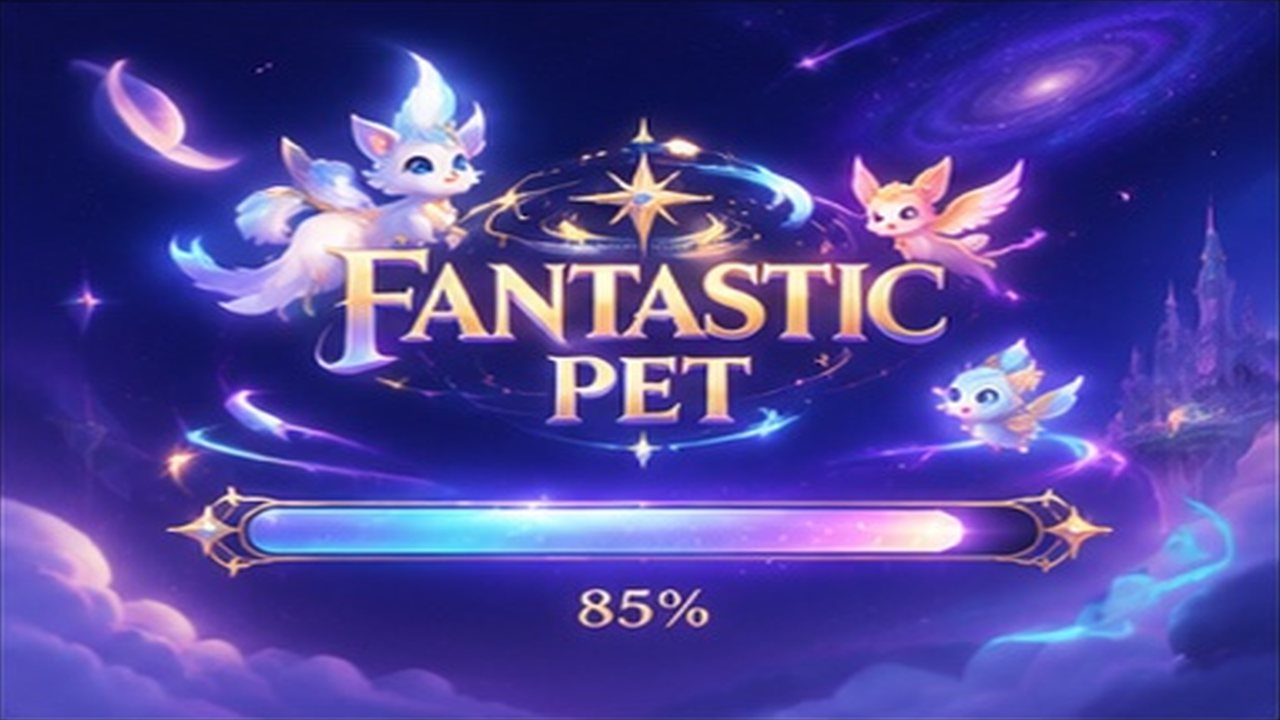
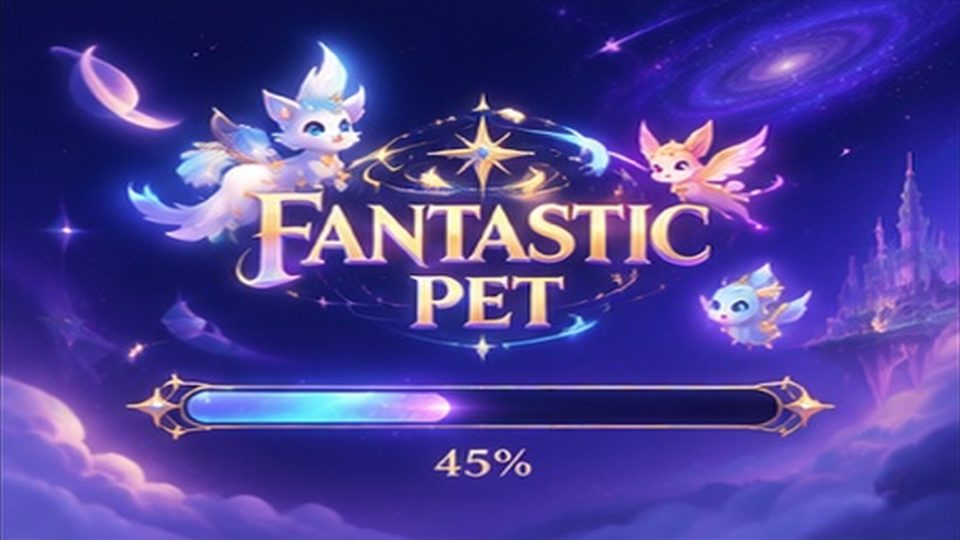
Add files via upload

diff --git a/script.js b/script.js
@@ -1,37 +1,56 @@
 const playBtn = document.getElementById('playBtn');
 const loading = document.getElementById('loading');
-const bootFrame = document.getElementById('bootFrame');
+const bootCanvas = document.getElementById('bootFrame');
 const game = document.getElementById('game');
 const select = document.getElementById('select');
 
-/* ---------- หน้าโหลดตอนเริ่มเกม (สไปรต์ชีต 12 เฟรม) ----------
-   เฟรม 0-8  = หลอดโหลด 0,15,30,45,55,70,85,95,100 %
-   เฟรม 9-11 = ปุ่ม PLAY (วนสลับให้เรืองแสง) */
-const BOOT_STEPS = [0, 15, 30, 45, 55, 70, 85, 95, 100];
-const BOOT_FRAMES = Array.from({ length: 12 }, (_, i) => `loadboot_${i}.jpg`);
-const bootReady = Promise.all(BOOT_FRAMES.map((u) => new Promise((r) => { const i = new Image(); i.onload = i.onerror = r; i.src = u; })));
+/* ---------- หน้าโหลดตอนเริ่มเกม (สไปรต์ชีต 23 เฟรม) ----------
+   เฟรม 0-16  = หลอดโหลด 0% -> 100% (มีเฟรมเบลนด์คั่นกลางไว้แล้ว)
+   เฟรม 17    = ช่วงเปลี่ยนจากหลอดเป็นปุ่ม PLAY
+   เฟรม 18-22 = ปุ่ม PLAY เรืองแสง (วนไปกลับ)
+   หลอดเดินตามเวลาจริง (requestAnimationFrame) ไม่ใช่ตัวเลขสุ่ม */
+const BOOT_COUNT = 23, BOOT_LAST = 16;
+const BOOT_MS = 3200;                       // เวลาขั้นต่ำที่หลอดเดิน 0 -> 100%
+const bootCtx = bootCanvas.getContext('2d');
+const bootImgs = new Array(BOOT_COUNT).fill(null);
+let bootDrawn = -1, bootLoaded = 0;
 
-let progress = 0, bootLoaded = false;
-bootReady.then(() => { bootLoaded = true; });
+function drawBoot(i) {
+  if (i === bootDrawn || !bootImgs[i]) return;
+  bootCtx.drawImage(bootImgs[i], 0, 0, bootCanvas.width, bootCanvas.height);
+  bootDrawn = i;
+}
+for (let i = 0; i < BOOT_COUNT; i++) {
+  const im = new Image();
+  im.src = `loadboot_${i}.jpg`;
+  const done = () => { bootImgs[i] = im.naturalWidth ? im : null; bootLoaded++; if (i === 0) drawBoot(0); };
+  (im.decode ? im.decode() : Promise.resolve()).then(done, done);   // decode ล่วงหน้า ตอนสลับเฟรมจะไม่กระตุก
+}
 
-const timer = setInterval(() => {
-  progress += Math.ceil(Math.random() * 3);
-  if (progress >= 100) progress = bootLoaded ? 100 : 99;   // รอรูปโหลดครบก่อนถึง 100%
-
-  let f = 0;
-  BOOT_STEPS.forEach((t, i) => { if (progress >= t) f = i; });
-  bootFrame.src = BOOT_FRAMES[f];
-
-  if (progress === 100) {
-    clearInterval(timer);
-    // โชว์ปุ่ม PLAY แล้ววนเฟรม 9,10,11,10 ให้เรืองแสง
-    const glow = [9, 10, 11, 10];
-    let g = 0;
-    bootFrame.src = BOOT_FRAMES[glow[0]];
-    playBtn.hidden = false;
-    setInterval(() => { g = (g + 1) % glow.length; bootFrame.src = BOOT_FRAMES[glow[g]]; }, 380);
+const GLOW = [18, 19, 20, 21, 22, 21, 20, 19];
+let bootT0 = null, bootDone = false;
+function bootTick(now) {
+  if (bootT0 === null) bootT0 = now;
+  const t = now - bootT0;
+  if (!bootDone) {
+    const p = Math.min(1, t / BOOT_MS);
+    const want = Math.floor(p * BOOT_LAST + 1e-6);
+    // เลื่อนเฟรมตามเวลา; ถ้าเฟรมนั้นยังโหลดไม่เสร็จ ให้ค้างเฟรมก่อนหน้า
+    let f = Math.max(0, bootDrawn);
+    while (f < want && bootImgs[f + 1]) f++;
+    drawBoot(f);
+    if (p >= 1 && bootLoaded >= BOOT_COUNT && bootDrawn >= BOOT_LAST) {
+      bootDone = true; bootT0 = now;
+    }
+  } else if (t < 360) {
+    drawBoot(17);                                   // หลอด -> ปุ่ม PLAY
+  } else {
+    if (playBtn.hidden) playBtn.hidden = false;
+    drawBoot(GLOW[Math.floor((t - 360) / 130) % GLOW.length]);
   }
-}, 80);
+  if (loading.classList.contains('active')) requestAnimationFrame(bootTick);
+}
+requestAnimationFrame(bootTick);
 
 playBtn.addEventListener('click', () => {
   loading.classList.remove('active');

diff --git a/style.css b/style.css
@@ -527,15 +527,12 @@ body{
 
 /* ===== หน้าโหลดตอนเริ่มเกม (รูปสไปรต์ชีต) ===== */
 #loading{padding:0;container-type:size;background:#140c45;overflow:hidden}
-.boot-bg{
-  position:absolute;inset:-6%;background:url(loadboot_0.jpg) center/cover;
-  filter:blur(22px) brightness(.7) saturate(1.2);
-}
+.boot-bg{position:absolute;inset:0;background:radial-gradient(ellipse at 50% 40%,#2b1d78 0%,#140c45 70%)}
 .boot-box{
   position:relative;aspect-ratio:16/9;
   width:min(100cqw,calc(100cqh * 16 / 9));
 }
-.boot-frame{display:block;width:100%;height:100%;object-fit:cover;user-select:none;-webkit-user-drag:none}
+.boot-frame{display:block;width:100%;height:100%;user-select:none;-webkit-user-drag:none}
 /* ปุ่ม PLAY ครอบทับปุ่มที่อยู่ในรูป */
 .boot-play{
   position:absolute;left:27%;width:46%;top:62%;height:22%;

diff --git a/index.html b/index.html
@@ -16,7 +16,7 @@
     <section id="loading" class="screen active" aria-label="กำลังโหลด">
       <div class="boot-bg"></div>
       <div class="boot-box">
-        <img id="bootFrame" class="boot-frame" src="loadboot_0.jpg" alt="Fantastic Pet" draggable="false">
+        <canvas id="bootFrame" class="boot-frame" width="960" height="540" role="img" aria-label="Fantastic Pet"></canvas>
         <button id="playBtn" class="boot-play" type="button" aria-label="Play" hidden></button>
       </div>
     </section>
